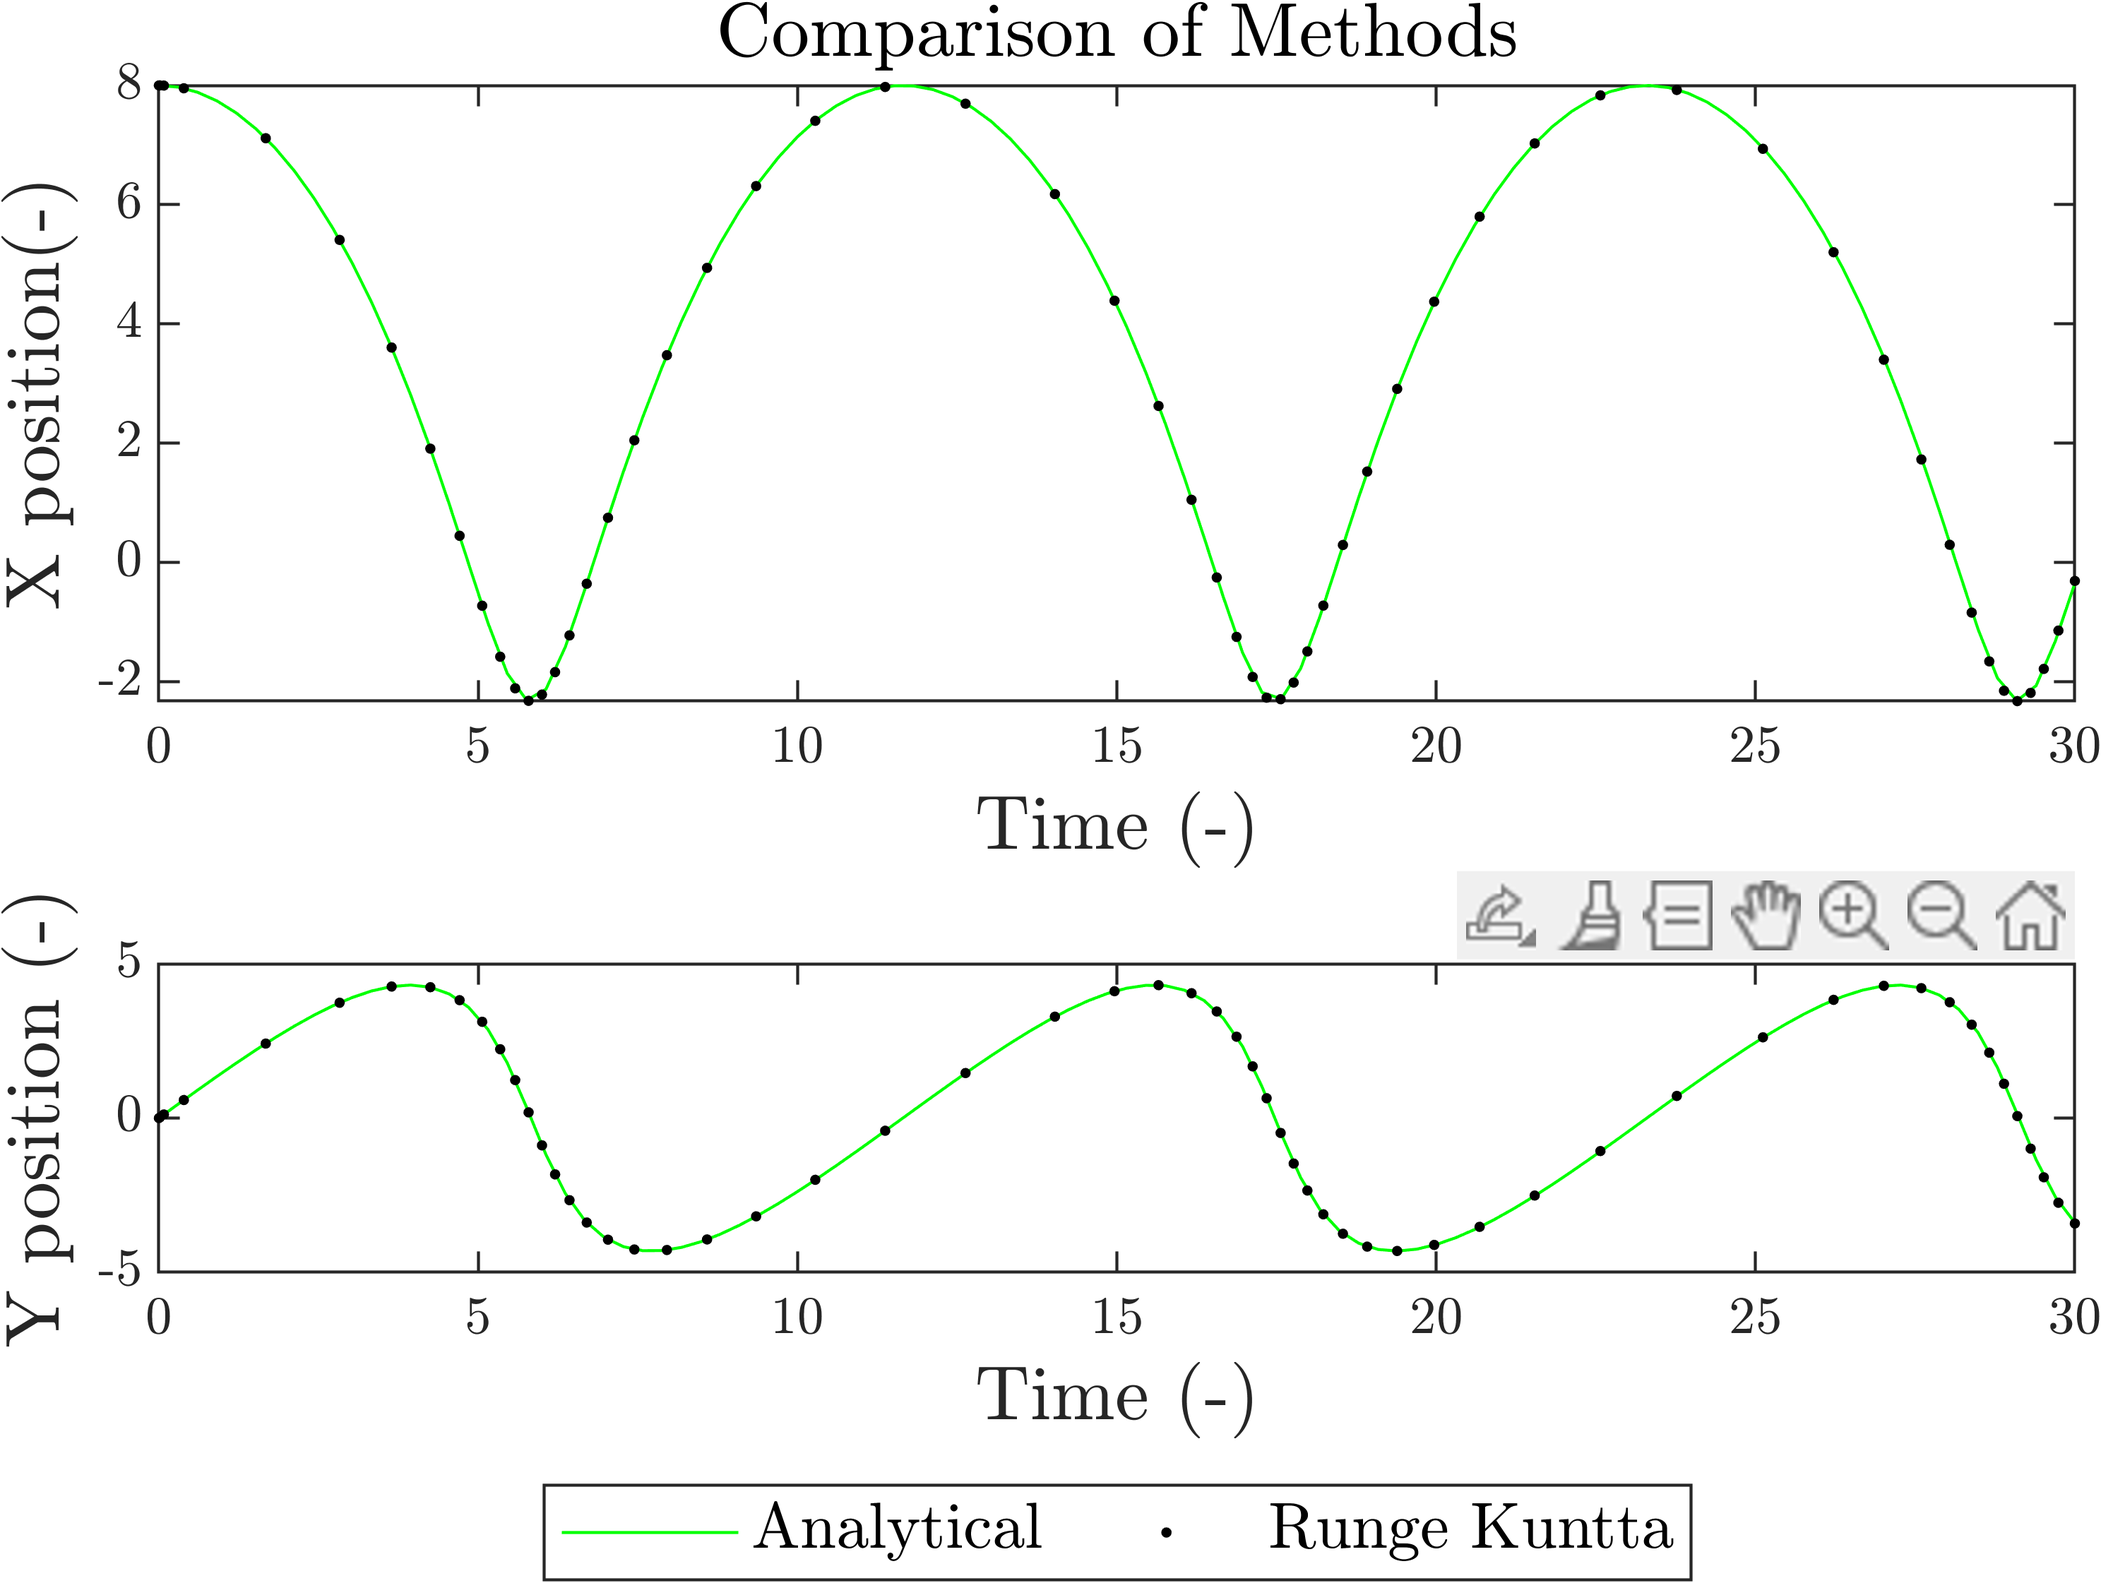
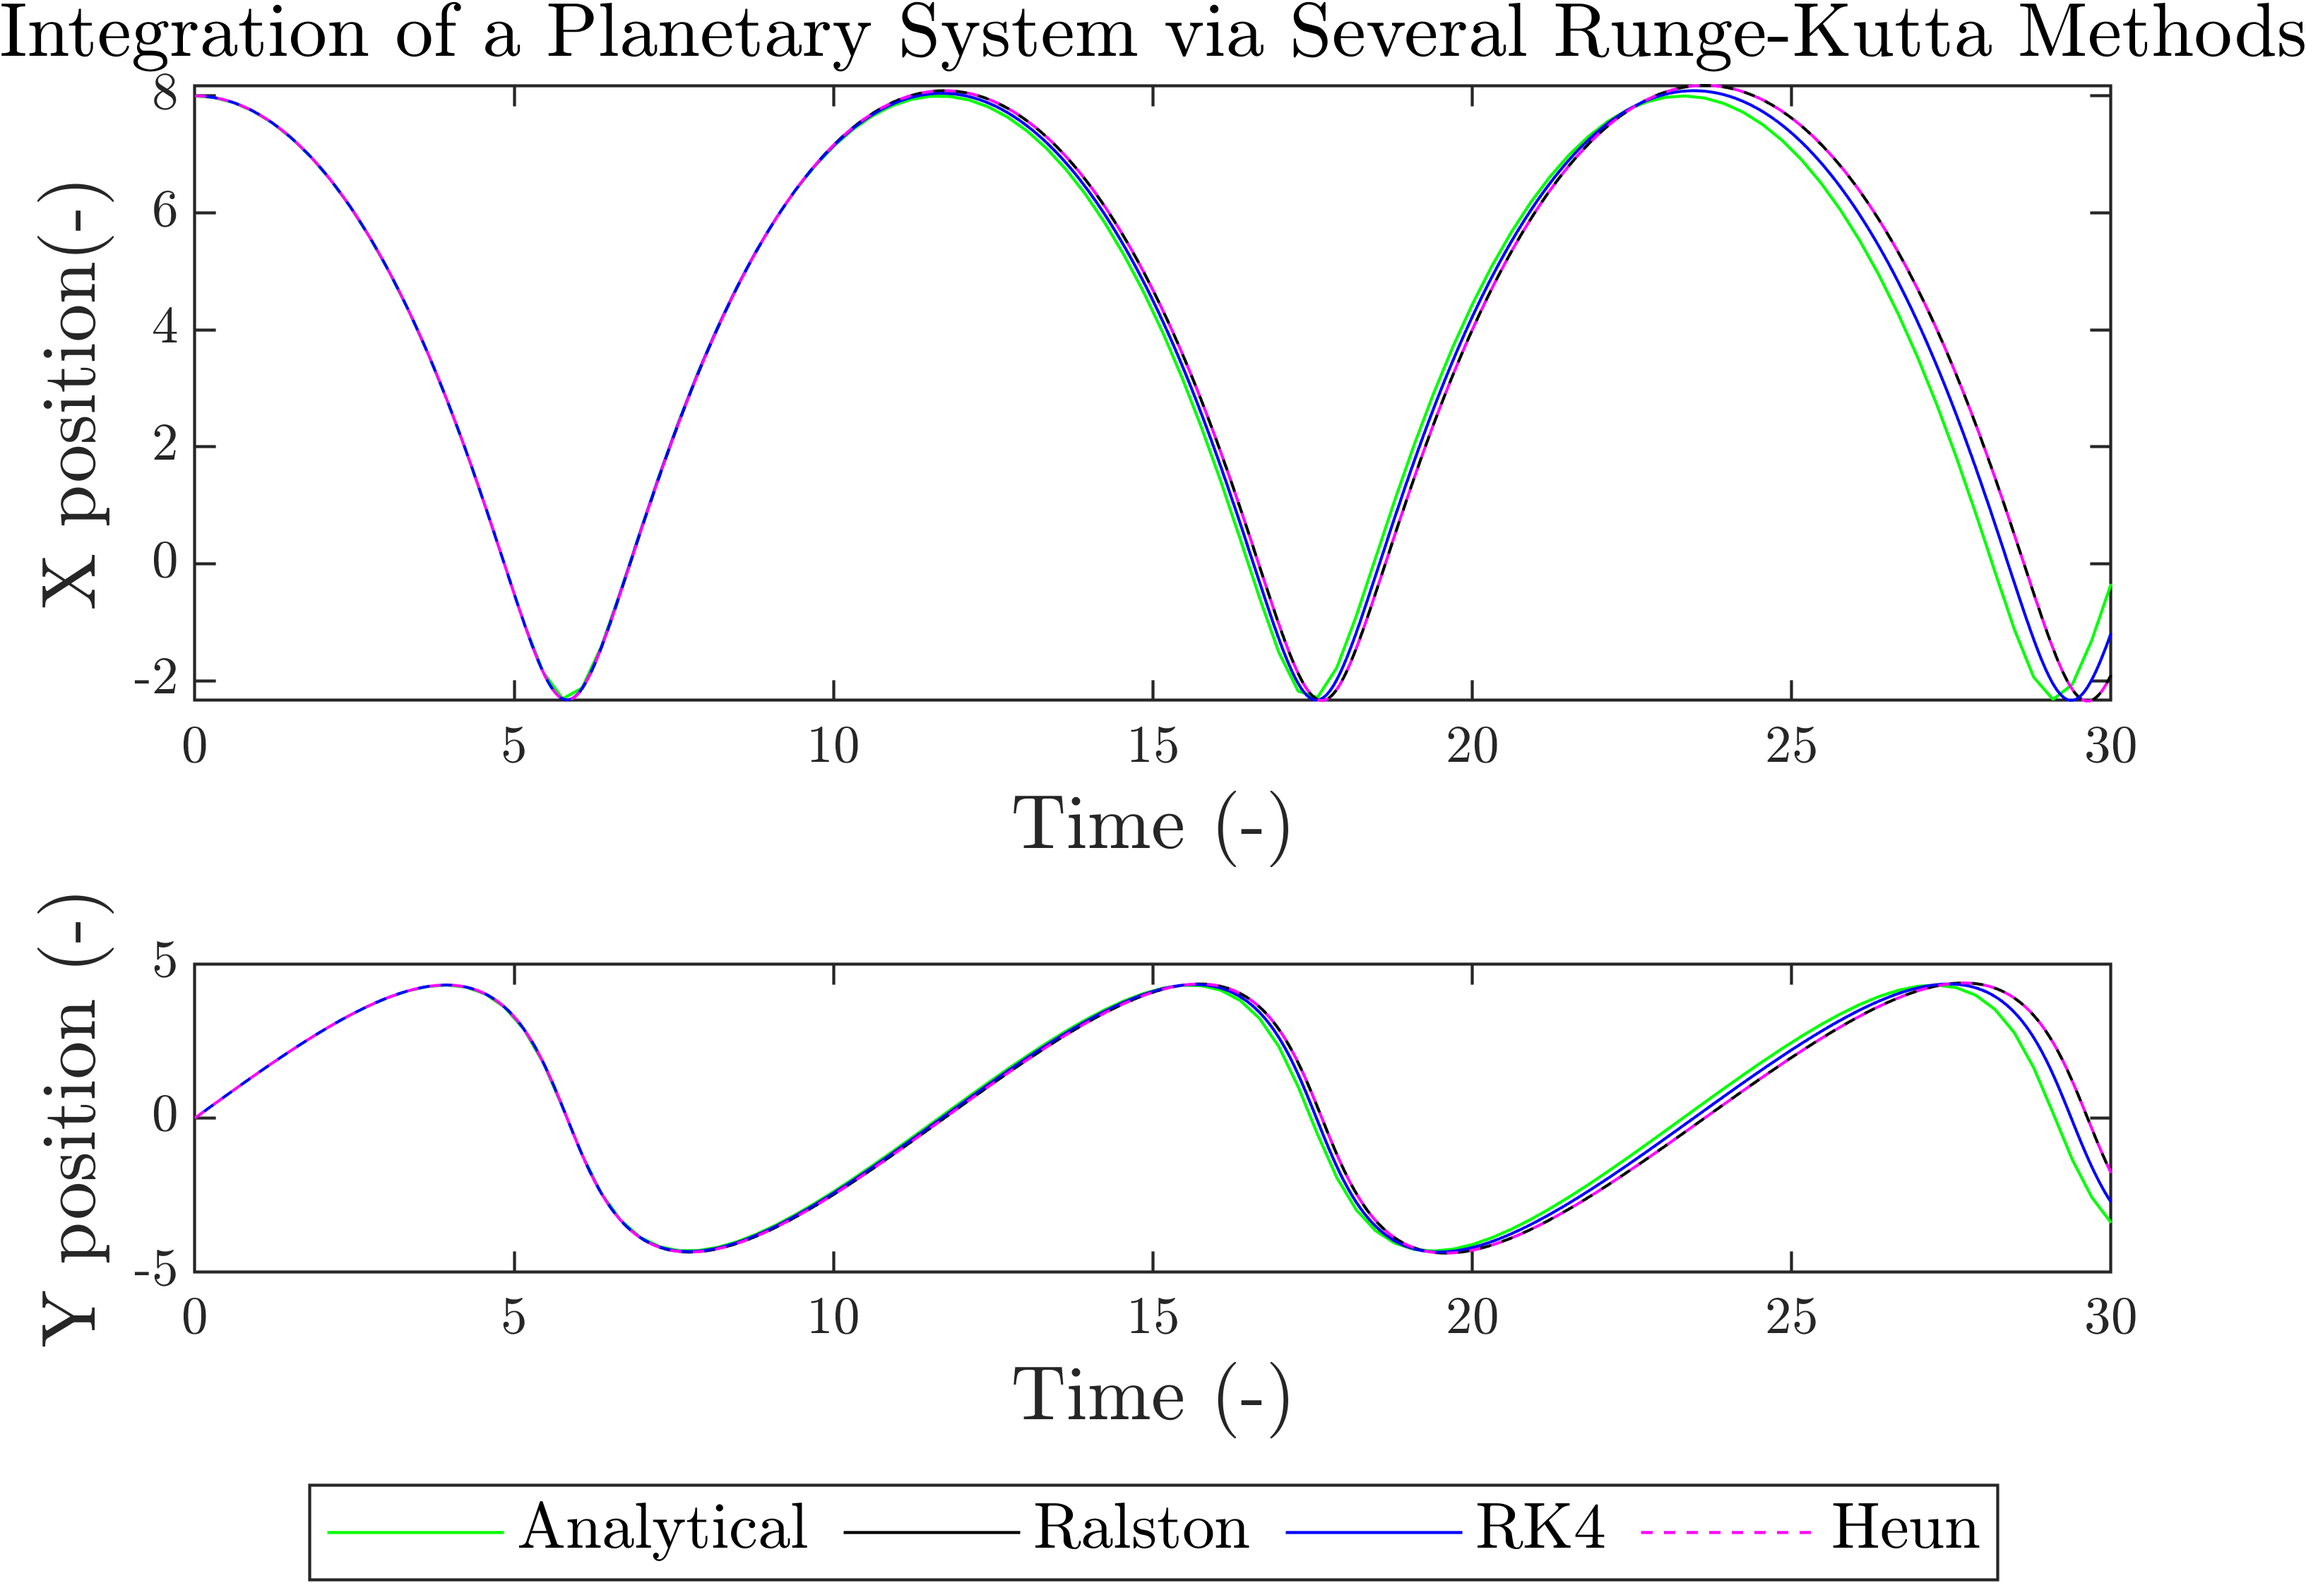
something happened fr

diff --git a/error_calcs.m b/error_calcs.m
@@ -6,11 +6,12 @@ function error_calcs()
     clf();
     clear all;
 
+    % ralston
     BT_fe=struct();
 
-    BT_fe.A=[0];
-    BT_fe.B=[1];
-    BT_fe.C=[0];
+    BT_fe.A=[0, 0; 2/3, 0];
+    BT_fe.B=[1/4; 3/4];
+    BT_fe.C=[0; 2/3];
 
     BT_rk=struct();
 
@@ -24,7 +25,19 @@ function error_calcs()
     BT_em.B=[0;1];
     BT_em.C=[0; 0.5];
 
-    hs = logspace(-3.5,-1,10);
+    BT_ny = struct();
+
+    BT_ny.A = [0, 0, 0, 0, 0, 0;...
+               1/3, 0, 0, 0, 0, 0;...
+               4/25, 6/25, 0, 0, 0, 0;...
+               1/4, -3, 15/4, 0, 0, 0;...
+               2/27, 10/9, -50/81, 8/81, 0, 0;...
+               2/25, 12/25, 2/15, 8/75, 0, 0];
+    BT_ny.B = [23/192; 0; 125/192; 0; -27/64; 125/192];
+    BT_ny.C = [0; 1/3; 2/5; 1; 2/3; 4/5];
+
+    hs = logspace(-3,0,51);
+    
 
     global_errors_fe = zeros(size(hs));
     global_errors_em = zeros(size(hs));
@@ -34,7 +47,10 @@ function error_calcs()
     h_avg_list_em = zeros(size(hs));
     h_avg_list_rk = zeros(size(hs));
 
-    time_int = [0, 30];
+    tstart = 0;
+    tend = 3;
+
+    time_int = [tstart, tend];
 
     orbit_params = struct();
     orbit_params.m_sun = 1;
@@ -46,7 +62,7 @@ function error_calcs()
     dydt0 = 1.5;
 
     V0 = [x0;y0;dxdt0;dydt0];
-    t_range = linspace(0,30,100);
+    t_range = linspace(tstart,tend,100);
     V_list = compute_planetary_motion(t_range,V0,orbit_params);
     h_ref=0.005;
 
@@ -58,7 +74,7 @@ function error_calcs()
         global_errors_fe(n) = g_efe;
         h_avg_list_fe(n) = h_avgfe;
 
-        [g_eem,h_avgem, evalem] = global_error(G_rate, V_list, V0, time_int, h, BT_em);
+        [g_eem,h_avgem, evalem] = global_error(G_rate, V_list, V0, time_int, h, BT_ny);
         global_errors_em(n) = g_eem;
         h_avg_list_em(n) = h_avgem;
 % compute_planetary_motion(time_int(1), V0, orbit_params)
@@ -89,8 +105,13 @@ function error_calcs()
     title("Global Truncation Error for Various Runge-Kutta Methods",'FontSize',13);
     xlabel("$h_{avg} (-)$ ",'FontSize',13);
     ylabel("Global Truncation error $(-)$",'FontSize',13)
-    legend("Forward Euler error", "Forward Euler fit", "Implicit midpoint error", "Implicit midpoint fit", "RK4 error", "RK4 fit", 'FontSize',11, "Location", "northwest")
+    legend("Ralston error", "Ralston fit", "Nystrom error", "Nystrom fit", "RK4 error", "RK4 fit", 'FontSize',11, "Location", "SOUTHEAST")
 
     myfig = gcf();
     exportgraphics(myfig , 'global_err_explicit_01.png', 'Resolution', 600);
+
+
+
+
+   
 end

diff --git a/usage_example_forwardE.m b/usage_example_forwardE.m
@@ -6,11 +6,12 @@ function usage_example_forwardE()
     clf();
     clear all;
 
+    % Ralston
     BT_fe=struct();
 
-    BT_fe.A=[0];
-    BT_fe.B=[1];
-    BT_fe.C=[0];
+    BT_fe.A=[0, 0; 2/3, 0];
+    BT_fe.B=[1/4; 3/4];
+    BT_fe.C=[0; 2/3];
 
     BT_rk4=struct();
 
@@ -18,11 +19,12 @@ function usage_example_forwardE()
     BT_rk4.B=[1/6; 1/3; 1/3; 1/6];
     BT_rk4.C=[0; 0.5; 0.5; 1];
 
+    % Heun
     BT_em=struct();
 
-    BT_em.A=[0, 0; 0.5, 0];
-    BT_em.B=[0;1];
-    BT_em.C=[0; 0.5];
+    BT_em.A=[0, 0; 1, 0];
+    BT_em.B=[1/2;1/2];
+    BT_em.C=[0; 1];
     
     orbit_params = struct();
     orbit_params.m_sun = 1;
@@ -67,7 +69,7 @@ function usage_example_forwardE()
     plot(t_list_em,X_list_em(:,1),'m--');
     xlabel("Time (-)", FontSize=13);
     ylabel("X position(-)", FontSize=13);
-    title("Comparison of Methods", FontSize=13);
+    title("Integration of a Planetary System via Several Runge-Kutta Methods", FontSize=13);
     
     subplot(2,1,2); 
     plot(t_range, V_list(:, 2), 'g'); hold on
@@ -77,7 +79,7 @@ function usage_example_forwardE()
     xlabel("Time (-)", FontSize=13);
     ylabel("Y position (-)", FontSize=13);
 
-    mylegend = legend("Analytical", "Forward Euler", "RK4", "Explicit Midpoint", FontSize=11);
+    mylegend = legend("Analytical", "Ralston", "RK4", "Heun", FontSize=11);
     set(mylegend, "location", "southoutside", "orientation", "horizontal")
 
     myfig = gcf();

diff --git a/global_error.m b/global_error.m
@@ -1,12 +1,6 @@
 function [error,h_avg, num_evals] = global_error(rate_func_in, sol_list, XA, t_range, href, BT)
 
-% function [error,h_avg,num_evals] = global_error(rate_func_in,sol_func,XA,t_range,href,BT)
-% 
-%     [~,X_list,h_avg,num_evals] = explicit_RK_fixed_step_integration(rate_func_in, t_range, XA, href, BT);
-%     X_numerical_final = X_list(end,:)';
-%     X_exact_final = sol_func(t_range(end));
-%     error = norm(X_numerical_final - X_exact_final);
-% end
     [t_list,X_list,h_avg, num_evals] = explicit_RK_fixed_step_integration(rate_func_in,t_range,XA,href,BT); % change explicit_midpoint_step to the other funcs when needed
+    
     error = norm(X_list(end,:)' - sol_list(end,:)');
 end

diff --git a/explicit_RK_fixed_step_integration.m b/explicit_RK_fixed_step_integration.m
@@ -16,6 +16,7 @@
 %num_evals: total number of calls made to rate_func_in during the integration
 function [t_list,X_list,h_avg, num_evals] = explicit_RK_fixed_step_integration ...
 (rate_func_in,tspan,X0,h_ref,BT_struct)
+
     num_evals = 0;
     N = ceil((tspan(end)-tspan(1))/h_ref);
     h_avg = (tspan(end)-tspan(1))/N;
@@ -27,7 +28,7 @@ function [t_list,X_list,h_avg, num_evals] = explicit_RK_fixed_step_integration .
     XA = X0;
     for n = 1:N
         [XB,num] = explicit_RK_step(rate_func_in,t_list(n),XA,h_avg, BT_struct);
-        X_list(n+1,:) = XB(:, 1)';
+        X_list(n+1,:) = XB';
         XA = XB;
         num_evals = num_evals + num;
     end

diff --git a/explicit_RK_step.m b/explicit_RK_step.m
@@ -25,11 +25,9 @@ function [XB, num_evals_temp] = explicit_RK_step(rate_func_in,t,XA,h,BT_struct)
     K(:, 1) = rate_func_in(t, XA);
 
     for i=2:total
-        sum_val1 = K*(A(i-1,:)');
-        K(:, i)=rate_func_in(t+C(i)*h,XA+h*sum_val1);
+        K(:, i)=rate_func_in(t+C(i)*h,XA+h*K*(A(i,:)'));
         num_evals_temp=num_evals_temp+1;
     end
-    sum_val2 = K*B;
   
-    XB=XA+h*sum_val2;
+    XB=XA+h*K*B;
 end
